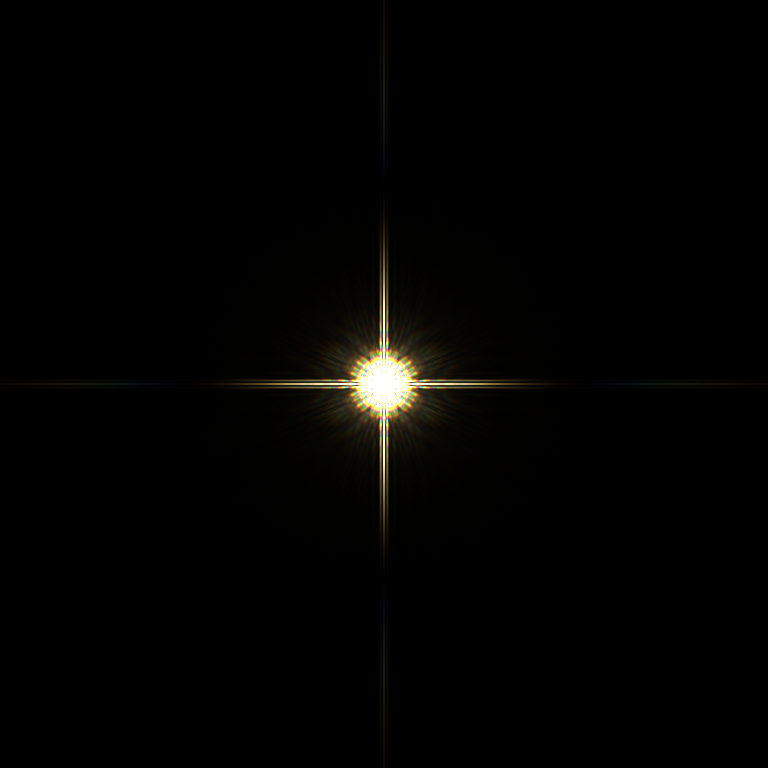
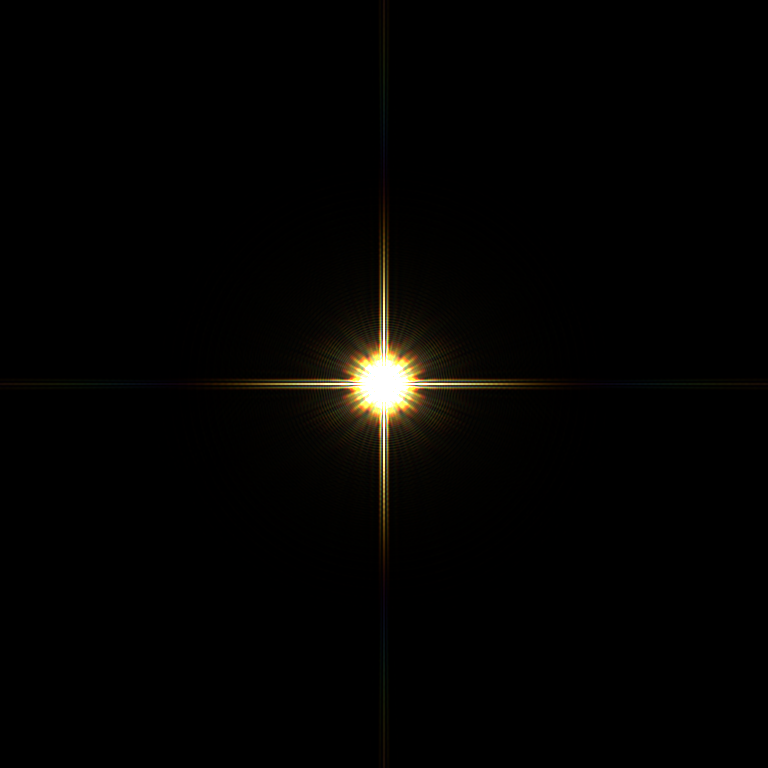
Change spectral width and re-render

Changed region(s): [[0.4062, 0.4062, 0.5938, 0.625]]

diff --git a/aperture_renderer/aperture_renderer.cpp b/aperture_renderer/aperture_renderer.cpp
@@ -16,9 +16,9 @@
 
 
 constexpr int NUM_COLORS = 16;
-constexpr float CLR_STEP = 1.0114602809799 * 1.0114602809799;
+constexpr float CLR_STEP = 1.04427378242741;
 constexpr float DEFAULT_R = 1000.0;
-constexpr float DEFAULT_LAMBDA = 0.55; // wavelength! not a functional prog lambda
+constexpr float DEFAULT_LAMBDA = 0.75; // wavelength! not a functional prog lambda
 
 constexpr float BRIGHT_RATIO = 90000.0; // basically defines how much "light" we want to see in the final render
 
